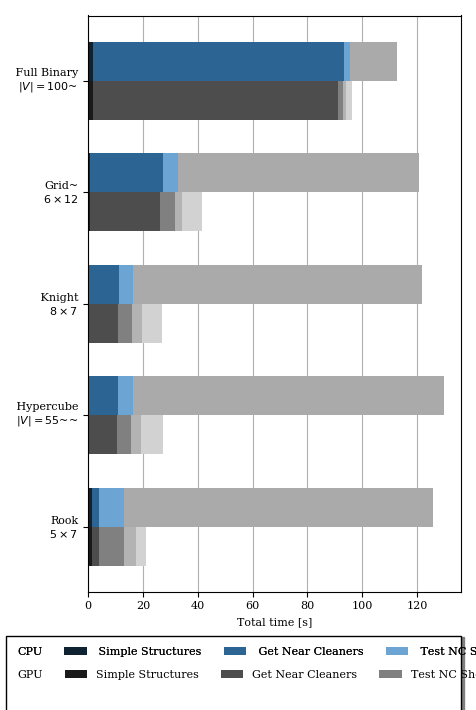
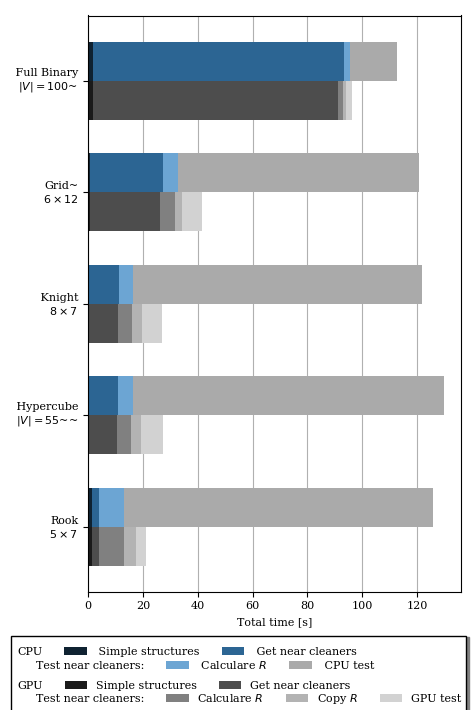
Detailed color

Changed region(s): [[0.0, 0.8986, 1.0, 1.0]]

diff --git a/code/test/plot.py b/code/test/plot.py
@@ -1,7 +1,7 @@
 # coding: utf-8
 
-usePgf = True
-# usePgf = False
+# usePgf = True
+usePgf = False
 
 import matplotlib as mpl
 
@@ -313,6 +313,7 @@ experiments = [
         "restrictions": [
             (csv_result, 1),
             (csv_filename, "detailed"),
+            (csv_algo, "Perfect|Naive"),
             # (csv_N, "20|25|30|35|40|45|50|55"),
             # (csv_algo, "GPU Perfect|Perfect"),
         ],
@@ -441,28 +442,45 @@ experiments = [
     #
     # COLOR
     #
+    # {
+    #     "restrictions": [(csv_algo, "CSDP")],
+    #     "x_param": csv_N,
+    #     "x_show": csv_N,
+    #     "type": "lines",
+    #     "size": sizes_in_inches["regular_small"],
+    #     "y_param": csv_overall,
+    #     "ylog": False,
+    #     "x_label": "N",
+    #     "y_label": label_time_overall_s,
+    #     "out_prefix": "color",
+    # },
+    # {
+    #     "restrictions": [(csv_algo, "CSDP")],
+    #     "x_param": csv_N,
+    #     "x_show": csv_N,
+    #     "type": "detailed",
+    #     "size": sizes_in_inches["wideDetailed_small"],
+    #     "x_label": "N",
+    #     "y_label": label_time_percentage,
+    #     "ylim": (0, 1),
+    #     "out_prefix": "color",
+    # },
     {
-        "restrictions": [(csv_algo, "CSDP")],
+        "restrictions": [
+            (csv_result, 1),
+            (csv_filename, "detailed"),
+            (csv_algo, "CSDP")
+            # (csv_N, "20|25|30|35|40|45|50|55"),
+            # (csv_algo, "GPU Perfect|Perfect"),
+        ],
         "x_param": csv_N,
-        "x_show": csv_N,
-        "type": "lines",
-        "size": sizes_in_inches["regular_small"],
-        "y_param": csv_overall,
-        "ylog": False,
-        "x_label": "N",
-        "y_label": label_time_overall_s,
-        "out_prefix": "color",
-    },
-    {
-        "restrictions": [(csv_algo, "CSDP")],
-        "x_param": csv_N,
-        "x_show": csv_N,
+        "x_show": csv_filename,
         "type": "detailed",
-        "size": sizes_in_inches["wideDetailed_small"],
-        "x_label": "N",
-        "y_label": label_time_percentage,
-        "ylim": (0, 1),
+        "size": sizes_in_inches["wideDetailed"],
+        "x_label": label_time_overall_s,
+        "x_ticks_labels": ["aaaaaaaaaaa", "bb"],
         "out_prefix": "color",
+        # "ylim": (0, 1),
     },
 ]
 
@@ -654,105 +672,124 @@ for i_exp, experiment in enumerate(experiments):
 
         handles, labels = ax.get_legend_handles_labels()
         legend = ax.legend(handles, labels)
-
-        rect = patches.Rectangle(
-            (-28, -1.98),
-            166,
-            1,
-            linewidth=1,
-            edgecolor="black",
-            facecolor="white",
-            clip_on=False,
-        )
-        shadow = patches.Rectangle(
-            (-27, -1.99),
-            166,
-            1,
-            linewidth=1,
-            edgecolor="grey",
-            facecolor="grey",
-            clip_on=False,
-        )
-        ax.add_patch(shadow)
-        ax.add_patch(rect)
-
         handles_and_labels = list(
             zip(ax.get_legend_handles_labels()[0], ax.get_legend_handles_labels()[1])
         )
-        hl_gpu = [hl for hl in handles_and_labels if "GPU" in hl[1]]
-        handles_gpu, labels_gpu = zip(*hl_gpu)
+        if len(handles_and_labels) > 3:
+            rect = patches.Rectangle(
+                (-28, -1.98),
+                166,
+                1,
+                linewidth=1,
+                edgecolor="black",
+                facecolor="white",
+                clip_on=False,
+            )
+            shadow = patches.Rectangle(
+                (-27, -1.99),
+                166,
+                1,
+                linewidth=1,
+                edgecolor="grey",
+                facecolor="grey",
+                clip_on=False,
+            )
+            ax.add_patch(shadow)
+            ax.add_patch(rect)
 
-        hl_cpu = [hl for hl in handles_and_labels if "GPU" not in hl[1]]
-        handles_cpu, labels_cpu = zip(*hl_cpu)
+            hl_gpu = [hl for hl in handles_and_labels if "GPU" in hl[1]]
+            handles_gpu, labels_gpu = zip(*hl_gpu)
 
+            hl_cpu = [hl for hl in handles_and_labels if "GPU" not in hl[1]]
+            handles_cpu, labels_cpu = zip(*hl_cpu)
 
-        r = mpl.patches.Rectangle(
-            (0, 0), 0.01, 0.01, fill=False, edgecolor="none", visible=False
-        )
+            r = mpl.patches.Rectangle(
+                (0, 0), 0.01, 0.01, fill=False, edgecolor="none", visible=False
+            )
 
-        labels_gpu = [l[12::] for l in labels_gpu] + ["GPU"]
-        handles_gpu = handles_gpu + (r,)
-        lgpu1 = labels_gpu[-3:]
-        hgpu1 = handles_gpu[-3:]
+            labels_gpu = [l[12::] for l in labels_gpu] + ["GPU"]
+            handles_gpu = handles_gpu + (r,)
+            lgpu1 = labels_gpu[-3:]
+            hgpu1 = handles_gpu[-3:]
 
-        lgpu2 = labels_gpu[:-3] + ["Test near cleaners:"]
-        hgpu2 = handles_gpu[:-3] + (r,)
+            lgpu2 = labels_gpu[:-3] + ["Test near cleaners:"]
+            hgpu2 = handles_gpu[:-3] + (r,)
 
-        labels_cpu = [l[7::] for l in labels_cpu] + ["CPU"]
-        handles_cpu = handles_cpu + (r,)
-        lcpu1 = labels_cpu[-3:]
-        hcpu1 = handles_cpu[-3:]
+            labels_cpu = [l[7::] for l in labels_cpu] + ["CPU"]
+            handles_cpu = handles_cpu + (r,)
+            lcpu1 = labels_cpu[-3:]
+            hcpu1 = handles_cpu[-3:]
 
-        lcpu2 = labels_cpu[:-3] + ["Test near cleaners:"]
-        hcpu2 = handles_cpu[:-3] + (r,)
+            lcpu2 = labels_cpu[:-3] + ["Test near cleaners:"]
+            hcpu2 = handles_cpu[:-3] + (r,)
 
+            # labels_hy = [l[11::] for l in labels_hy] + ["GPU Hybrid"]
+            # handles_hy = handles_hy + (r,)
 
-        # labels_hy = [l[11::] for l in labels_hy] + ["GPU Hybrid"]
-        # handles_hy = handles_hy + (r,)
-
-        legend = ax.legend(
-            hgpu1[::-1],
-            lgpu1[::-1],
-            loc="lower left",
-            bbox_to_anchor=(-0.3, -0.19),
-            fancybox=True,
-            shadow=False,
-            ncol=6,
-            frameon=False,
-        )
-        legend1 = ax.legend(
-            hgpu2[::-1],
-            lgpu2[::-1],
-            loc="lower left",
-            bbox_to_anchor=(-0.25, -0.215),
-            fancybox=True,
-            shadow=False,
-            ncol=6,
-            frameon=False,
-        )
-        legend2 = ax.legend(
-            hcpu1[::-1],
-            lcpu1[::-1],
-            loc="lower left",
-            bbox_to_anchor=(-0.3, -0.13),
-            fancybox=True,
-            shadow=False,
-            ncol=5,
-            frameon=False,
-        )
-        legend3 = ax.legend(
-            hcpu2[::-1],
-            lcpu2[::-1],
-            loc="lower left",
-            bbox_to_anchor=(-0.25, -0.155),
-            fancybox=True,
-            shadow=False,
-            ncol=5,
-            frameon=False,
-        )
-        plt.gca().add_artist(legend)
-        plt.gca().add_artist(legend1)
-        plt.gca().add_artist(legend2)
+            legend = ax.legend(
+                hgpu1[::-1],
+                lgpu1[::-1],
+                loc="lower left",
+                bbox_to_anchor=(-0.3, -0.19),
+                fancybox=True,
+                shadow=False,
+                ncol=6,
+                frameon=False,
+            )
+            legend1 = ax.legend(
+                hgpu2[::-1],
+                lgpu2[::-1],
+                loc="lower left",
+                bbox_to_anchor=(-0.25, -0.215),
+                fancybox=True,
+                shadow=False,
+                ncol=6,
+                frameon=False,
+            )
+            legend2 = ax.legend(
+                hcpu1[::-1],
+                lcpu1[::-1],
+                loc="lower left",
+                bbox_to_anchor=(-0.3, -0.13),
+                fancybox=True,
+                shadow=False,
+                ncol=5,
+                frameon=False,
+            )
+            legend3 = ax.legend(
+                hcpu2[::-1],
+                lcpu2[::-1],
+                loc="lower left",
+                bbox_to_anchor=(-0.25, -0.155),
+                fancybox=True,
+                shadow=False,
+                ncol=5,
+                frameon=False,
+            )
+            plt.gca().add_artist(legend)
+            plt.gca().add_artist(legend1)
+            plt.gca().add_artist(legend2)
+        else:
+            rect = patches.Rectangle(
+                (-28, -1.98),
+                166,
+                1,
+                linewidth=1,
+                edgecolor="black",
+                facecolor="white",
+                clip_on=False,
+            )
+            shadow = patches.Rectangle(
+                (-27, -1.99),
+                166,
+                1,
+                linewidth=1,
+                edgecolor="grey",
+                facecolor="grey",
+                clip_on=False,
+            )
+            ax.add_patch(shadow)
+            ax.add_patch(rect)
 
     # elif experiment["size"] == sizes_in_inches["allGraphs"]:
     #     fig.tight_layout(rect=[0, 0.05, 1, 1])
